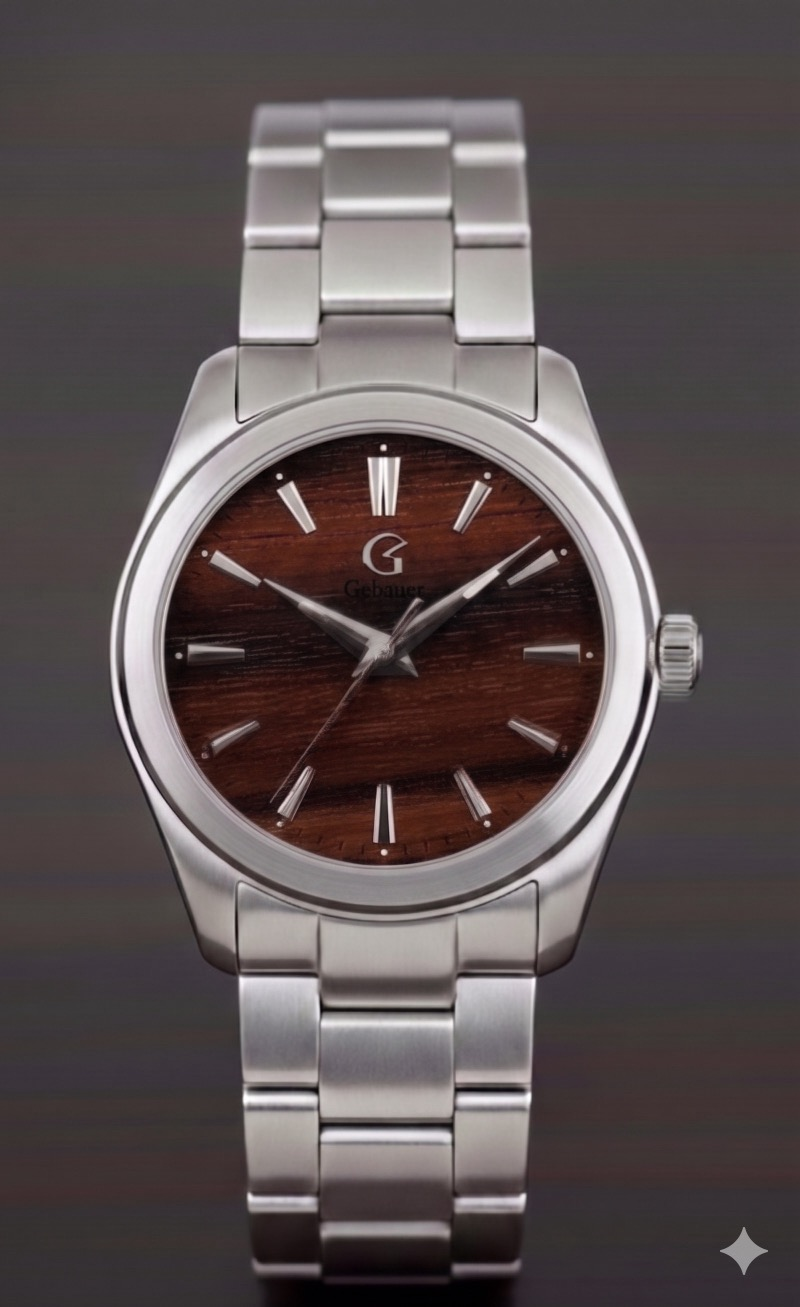
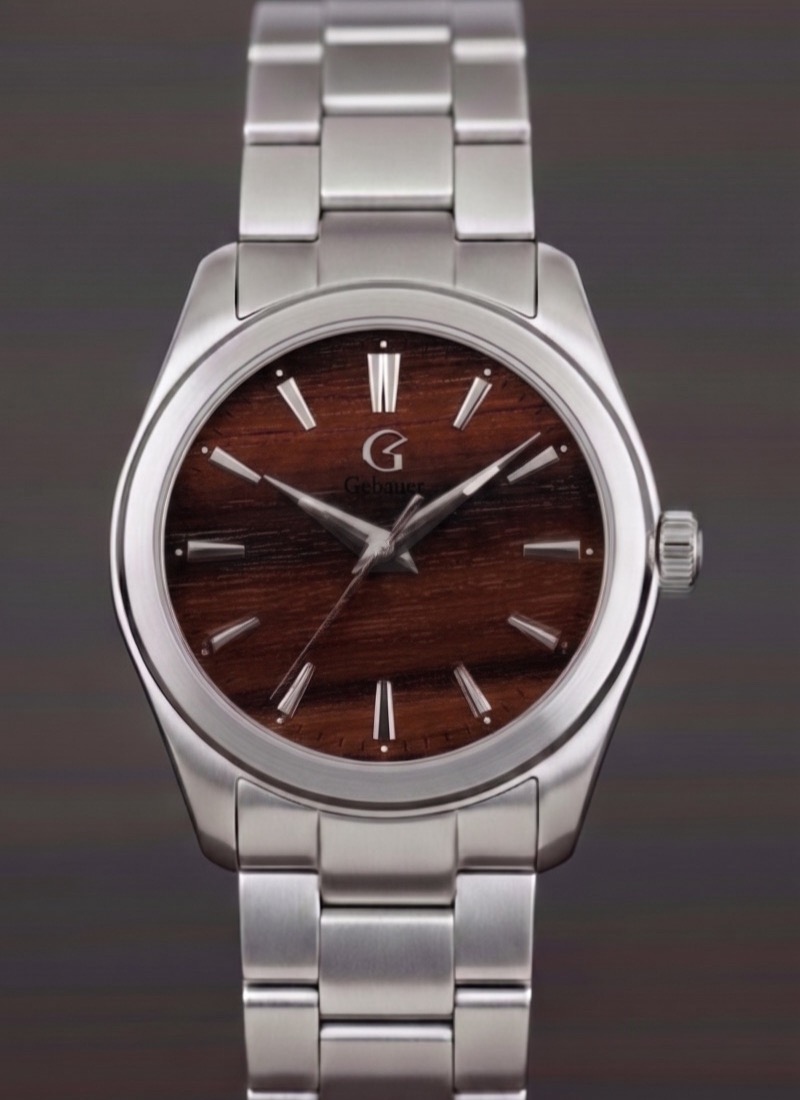
Story first, stats second. One vote section. Bigger text. Cropped image.
Flow: Story (Milan) → Stats (set the stage) → Watch (side by side) →
"No two have ever been the same" → "No two ever will. Choose yours." →
Manifesto → Get In

Removed design poll (broke rhythm). Cropped Gemini watermark.
Bigger subtext (17px). Story hooks before facts convince.

diff --git a/src/App.jsx b/src/App.jsx
@@ -432,16 +432,8 @@ function App() {
         <div className="scroll-hint"><div className="scroll-hint-line" /></div>
       </section>
 
-      {/* 2. THE STAT — hooks instantly */}
-      <Reveal className="story-beat story-dark" id="story">
-        <div className="story-beat-inner" style={{textAlign: 'center'}}>
-          <h2 className="story-beat-headline story-stat">65% of teens used to buy class rings. Today it's under 30%.</h2>
-          <p className="story-beat-text">The milestone gift market is broken. Parents spend $461 on average, and most of it gets forgotten. Class rings sit in drawers. Gift cards disappear. There's a gap between what adults want to give and what teens actually want to receive.</p>
-        </div>
-      </Reveal>
-
-      {/* 3. THE ORIGIN — Milan, short */}
-      <Reveal className="story-beat story-milan">
+      {/* 2. THE ORIGIN — story first, people connect with people */}
+      <Reveal className="story-beat story-milan" id="story">
         <img src={milanBg} alt="" className="story-milan-bg" />
         <div className="story-milan-overlay" />
         <div className="story-beat-inner story-beat-over">
@@ -451,29 +443,29 @@ function App() {
         </div>
       </Reveal>
 
-      {/* 4. ANOTHER STAT */}
-      <Reveal className="story-beat story-cream">
+      {/* 3. THE STATS — sets the stage after the story hooks you */}
+      <Reveal className="story-beat story-dark">
         <div className="story-beat-inner" style={{textAlign: 'center'}}>
-          <h2 className="story-beat-headline story-stat">63% of Gen Z is choosing screen-free habits. 26 states have banned phones in schools.</h2>
-          <p className="story-beat-text">Teens want something on their wrist that isn't a screen. Parents want to give something that lasts. Gebauer is the answer for both.</p>
+          <h2 className="story-beat-headline story-stat">65% of teens used to buy class rings. Today it's under 30%.</h2>
+          <p className="story-beat-text">Parents spend $461 on average for milestone gifts, and most of it gets forgotten. 63% of Gen Z is choosing screen-free habits. 26 states have banned phones in schools. Teens want something on their wrist that isn't a screen. Parents want to give something that lasts.</p>
         </div>
       </Reveal>
 
-      {/* 5. THE WATCH — side by side new vs aged */}
-      <Reveal className="story-beat story-dark">
+      {/* 4. THE WATCH — side by side, "No two have ever been the same" */}
+      <Reveal className="story-beat story-cream">
         <div className="story-beat-inner" style={{textAlign: 'center'}}>
           <h2 className="story-beat-headline">Every dial is cut from a real tree. It ages with whoever wears it.</h2>
           <div className="watch-compare">
             <div className="watch-compare-item">
-              <img src={watchPadauk} alt="Padauk watch, day one" />
+              <img src={watchPadauk} alt="Padauk, day one" />
               <p>Day one</p>
             </div>
             <div className="watch-compare-item">
-              <img src={padaukDeep} alt="Padauk watch, years later" />
+              <img src={padaukDeep} alt="Padauk, years later" />
               <p>Years later</p>
             </div>
           </div>
-          <p className="story-beat-text">African Padauk shifts from fiery orange to deep burgundy. The grain deepens. The wood tells your story. Sapphire crystal. Japanese movement. 316L stainless steel. 300 ever made, each one numbered.</p>
+          <p className="story-beat-text">African Padauk shifts from fiery orange to deep burgundy over years. Sapphire crystal. Japanese movement. 316L stainless steel. 300 ever made, each one numbered.</p>
           <p className="story-beat-accent">No two have ever been the same.</p>
         </div>
       </Reveal>
@@ -481,7 +473,8 @@ function App() {
       {/* 6. THE PROOF — three woods */}
       <Reveal className="story-beat story-dark" id="watches">
         <div className="story-beat-inner" style={{maxWidth: 960}}>
-          <h2 className="story-beat-headline" style={{textAlign: 'center', marginBottom: 48}}>Three woods. Each one tells a different story.</h2>
+          <h2 className="story-beat-headline" style={{textAlign: 'center', marginBottom: 16}}>No two ever will.</h2>
+          <p className="story-beat-text" style={{textAlign: 'center', marginBottom: 48}}>Choose yours.</p>
           <div className="wood-grid">
             {[
               { id: 'padauk', img: watchPadauk, name: 'African Padauk', desc: 'Starts orange. Darkens to deep burgundy over years. The only watch dial that changes color with time.' },
@@ -549,118 +542,6 @@ function App() {
           </div>
         </div>
       </Reveal>
-
-      {/* 9. DESIGN INPUT — help us decide */}
-      {(() => {
-        const POLLS = [
-          {
-            id: 'raven-caseback',
-            question: "Which raven belongs on the caseback?",
-            context: "Every Gebauer has a raven engraved on the back. We're deciding the style.",
-            options: [
-              { id: 'simple', label: 'Simple', desc: 'Clean outline with talons. Bold and readable.', img: ravenSimple },
-              { id: 'minimal', label: 'Minimal', desc: 'Streamlined, no talons. Subtle.', img: ravenMinimal },
-            ],
-          },
-          {
-            id: 'clasp-style',
-            question: "Butterfly clasp or deployant?",
-            context: "The clasp is what you touch every time you put the watch on.",
-            options: [
-              { id: 'butterfly', label: 'Butterfly', desc: 'Folds from both sides. Clean when closed.', img: claspButterfly },
-              { id: 'deployant', label: 'Deployant', desc: 'Single fold with push button release.', img: claspDeployed },
-            ],
-          },
-          {
-            id: 'box-design',
-            question: "Which box do you want to open?",
-            context: "The unboxing is the first impression.",
-            options: [
-              { id: 'debossed', label: 'Debossed', desc: 'Pressed logo, no color. Understated.', img: boxDebossed },
-              { id: 'gold-logo', label: 'Gold Logo', desc: 'Gold G on green. Bolder.', img: boxGoldLogo },
-            ],
-          },
-          {
-            id: 'interior-material',
-            question: "Suede or microfiber inside the box?",
-            context: "The interior is what touches the watch.",
-            options: [
-              { id: 'suede', label: 'Suede', desc: 'Warm, textured, classic luxury feel.', img: interiorSuede },
-              { id: 'microfiber', label: 'Microfiber', desc: 'Smooth, modern, protects the crystal.', img: interiorMicrofiber },
-            ],
-          },
-        ]
-
-        const weekNum = Math.floor((Date.now() - new Date('2026-04-14').getTime()) / (7 * 24 * 60 * 60 * 1000))
-        const poll = POLLS[weekNum % POLLS.length]
-        const voteKey = `gebauer_vote_${poll.id}`
-        const voted = localStorage.getItem(voteKey) || ''
-
-        // Poll results fetched on mount via top-level state
-
-        const castDesignVote = async (optId) => {
-          if (voted) return
-          const savedEmail = localStorage.getItem('gebauer_email')
-          if (!savedEmail) {
-            setShowSignup(true)
-            return
-          }
-          localStorage.setItem(voteKey, optId)
-          try {
-            const resp = await fetch('/api/vote', {
-              method: 'POST', headers: { 'Content-Type': 'application/json' },
-              body: JSON.stringify({ poll_id: poll.id, option: optId, voter_id: getVoterId() }),
-            })
-            const data = await resp.json()
-            if (data.results) setDesignPollResults(data.results)
-          } catch {}
-          window.location.hash = 'vote'
-          window.location.reload()
-        }
-
-        const pollTotal = Object.values(designPollResults).reduce((a, b) => a + b, 0) || 0
-
-        return (
-          <Reveal className="story-beat story-cream" id="vote">
-            <div className="story-beat-inner" style={{maxWidth: 520}}>
-              <p className="vote-label">Help Us Decide</p>
-              <h2 className="story-beat-headline">{poll.question}</h2>
-              <p className="story-beat-text">{poll.context}</p>
-              <div className="vote-options">
-                {poll.options.map(opt => {
-                  const isSelected = voted === opt.id
-                  const optCount = designPollResults[opt.id] || 0
-                  const optPct = pollTotal > 0 ? Math.round((optCount / pollTotal) * 100) : 0
-                  return (
-                    <button
-                      key={opt.id}
-                      className={`vote-opt ${isSelected ? 'selected' : ''} ${voted ? 'revealed' : ''}`}
-                      onClick={() => castDesignVote(opt.id)}
-                      disabled={!!voted}
-                    >
-                      <div className="vote-opt-img">
-                        <img src={opt.img} alt={opt.label} />
-                      </div>
-                      <div>
-                        <h3>{opt.label}</h3>
-                        <p>{opt.desc}</p>
-                      </div>
-                      {voted && (
-                        <div className="vote-result-bar">
-                          <div className="vote-result-fill" style={{width: `${optPct}%`}} />
-                          <span>{optPct}%</span>
-                        </div>
-                      )}
-                    </button>
-                  )
-                })}
-              </div>
-              {voted && <p className="vote-thanks">Your vote is in. {pollTotal} vote{pollTotal !== 1 ? 's' : ''} so far. New poll drops next week.</p>}
-              {!voted && <p className="vote-hint">Your vote shapes the final design.</p>}
-            </div>
-          </Reveal>
-        )
-      })()}
 
       {/* 10. THE INVITATION */}
       <Reveal className="story-beat story-cream story-center">

diff --git a/src/App.css b/src/App.css
@@ -79,7 +79,7 @@
 .hero-content { position: relative; z-index: 2; display: flex; flex-direction: column; align-items: center; text-align: center; padding: 0 28px; max-width: 700px; }
 .hero-headline { font-family: 'Cormorant Garamond', Georgia, serif; font-weight: 400; font-size: clamp(40px, 8vw, 72px); line-height: 1.1; color: var(--text-primary); margin-bottom: 20px; letter-spacing: -0.02em; }
 .hero-accent { color: var(--gold); font-style: italic; font-weight: 400; display: block; }
-.hero-sub { font-family: 'Inter', sans-serif; font-weight: 300; font-size: 15px; line-height: 1.7; color: var(--text-secondary); opacity: 0.6; max-width: 460px; margin: 0 auto 28px; }
+.hero-sub { font-family: 'Inter', sans-serif; font-weight: 300; font-size: 17px; line-height: 1.7; color: var(--text-secondary); opacity: 0.7; max-width: 500px; margin: 0 auto 28px; }
 
 .hero-buttons { display: flex; gap: 12px; align-items: center; justify-content: center; margin-bottom: 16px; }
 .hero-cta-btn { font-family: 'Inter', sans-serif; font-weight: 500; font-size: 14px; letter-spacing: 0.22em; text-transform: uppercase; color: var(--bg-dark); background: var(--gold); border: none; padding: 18px 48px; cursor: pointer; transition: background 0.3s, transform 0.15s, box-shadow 0.3s; }
@@ -131,7 +131,7 @@
 
 .story-beat-text {
   font-family: 'Inter', sans-serif; font-weight: 300;
-  font-size: 16px; line-height: 1.85; margin-bottom: 16px;
+  font-size: 17px; line-height: 1.85; margin-bottom: 16px;
 }
 .story-dark .story-beat-text { color: var(--text-secondary); opacity: 0.65; }
 .story-cream .story-beat-text { color: var(--text-warm); }